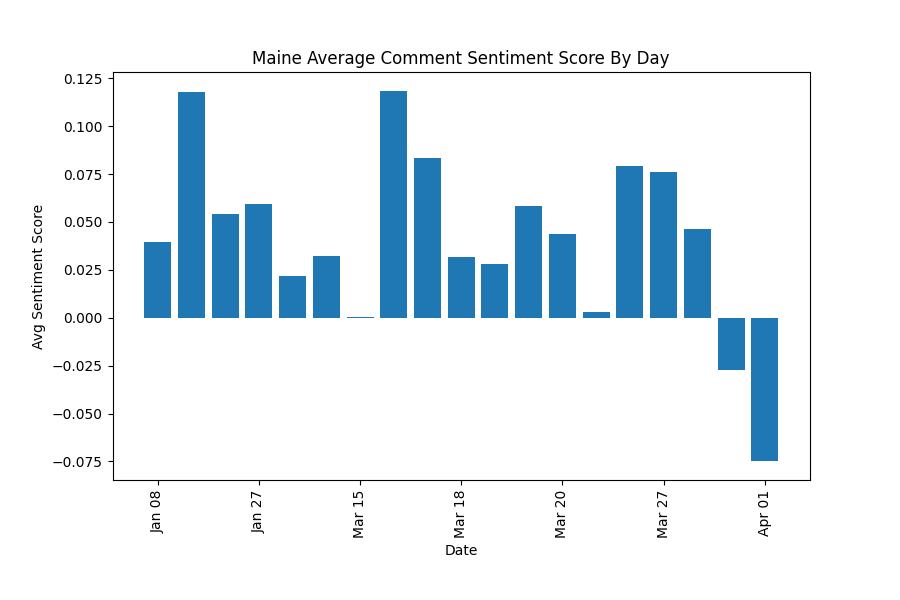
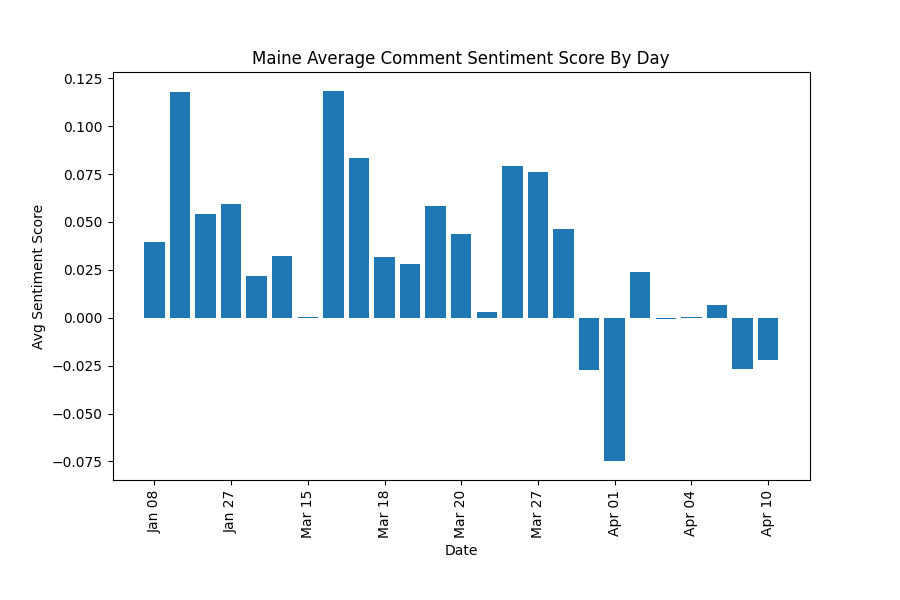
minor css changes

diff --git a/app/static/main2.css b/app/static/main2.css
@@ -13,8 +13,8 @@ body {
 
 .title{
   text-align: left;
-  font-size: 45px; 
-  font-family:Futura; 
+  font-size: 45px;
+  font-family:Futura;
   color: red;
   padding-left: 5%;
   padding-top: 0px;
@@ -23,8 +23,8 @@ body {
 
 #title-subheading{
   text-align: left;
-  font-size: 12px; 
-  font-family:Futura; 
+  font-size: 12px;
+  font-family:Futura;
   color: black;
   padding-left: 5.5%;
   padding-bottom: 500px;
@@ -88,6 +88,10 @@ body {
 #pro{
   font-size: 30px;
   text-align: center;
+  background-color: #BDC9B8;
+  padding-top: 20px;
+  padding-bottom: 20px;
+  border: 1px solid black;
 }
 
 .boxx{
@@ -96,9 +100,9 @@ body {
   margin-right: 300px;
   padding-top: 20px;
   padding-bottom: 20px;
-  border: 3px solid black;
+  border: 1px solid black;
   border-radius: 5px 0 0 5px;
-  border-radius: 25px;
+  border-radius: 5px;
 }
 
 .twitter{

diff --git a/app/templates/search.html b/app/templates/search.html
@@ -68,7 +68,7 @@
         <img id="profile" class="center" src="../static/profile_images/{{state}}_profile.png" alt="Governor's Profile Picture">
       </div>
       {% if output_message|length != 0 %}
-      <h1 class="boxx" id="pro">{{output_message}}</h1>
+      <h1 id="pro">{{output_message}}</h1>
       {% else %} {% endif %}
     </form>
   </div>
@@ -79,7 +79,8 @@
   <br> {% if output_message|length != 0 %}
   <hr> {% else %} {% endif %}
 
-  <h2 class="twitter">Twitter Statistics:</h2>
+  <h2 class="twitter" style="text-align:center; font-style:italic; margin-bottom:10px;">Fast Facts</h2>
+  <p class="head center sentiment1" style="text-align:center">Some statistic's about {{handle}}'s Twitter usage and COVID-19.</p>
 
 
   <br>

diff --git a/app/irsystem/controllers/make_sent_plots.py b/app/irsystem/controllers/make_sent_plots.py
@@ -33,7 +33,7 @@ def make_state_comment_plot(state, avg_by_day):
     # plt.xticks(rotation=70)
     plt.xlabel("Date")
     plt.ylabel("Avg Sentiment Score")
-    plt.title(state + " Average Comment Sentiment Score By Day")
+    plt.title("Average Comment Sentiment Score By Day")
 
 
     link = 'app/static/images/' + state + '_sent_plot1.png'
